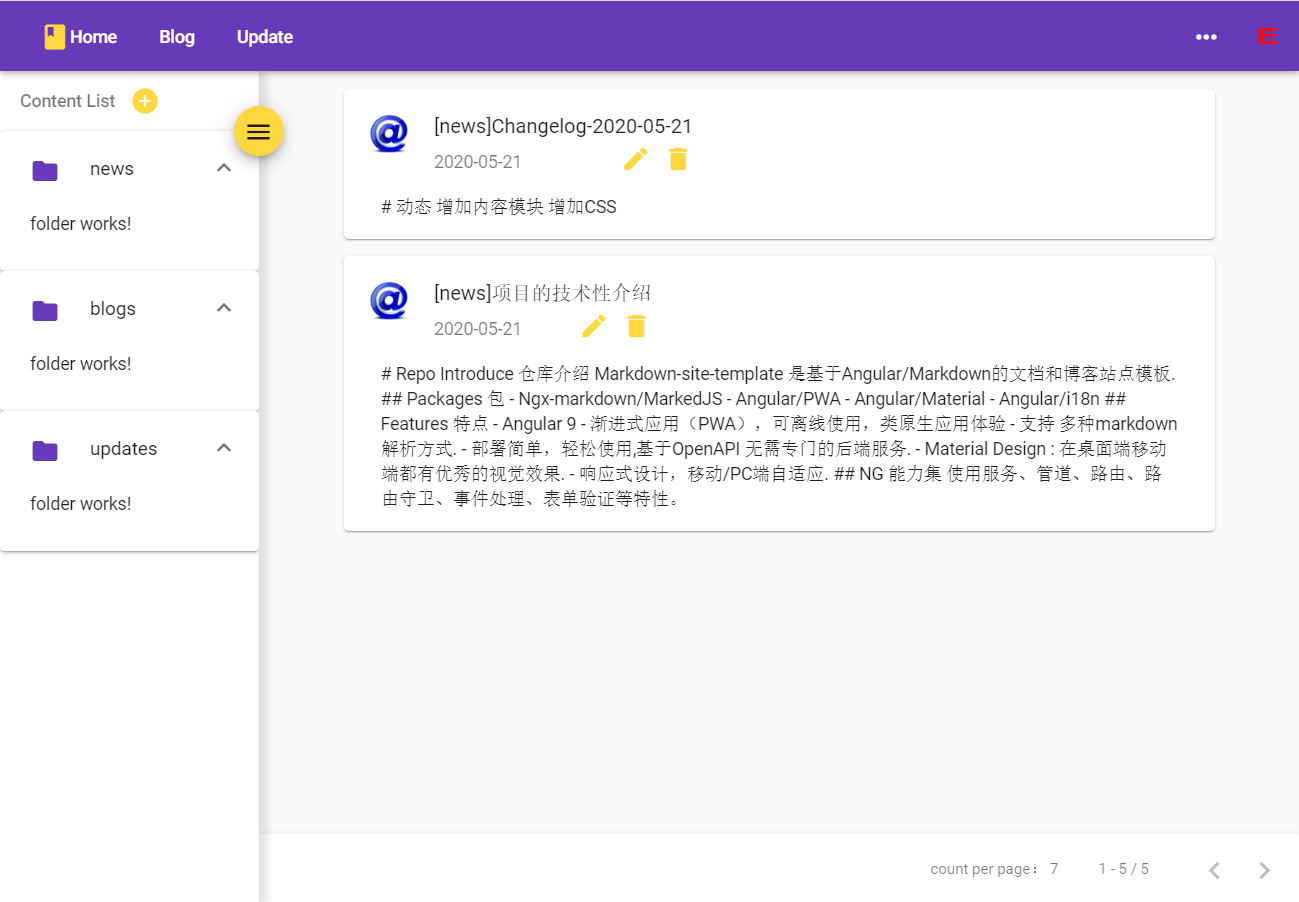
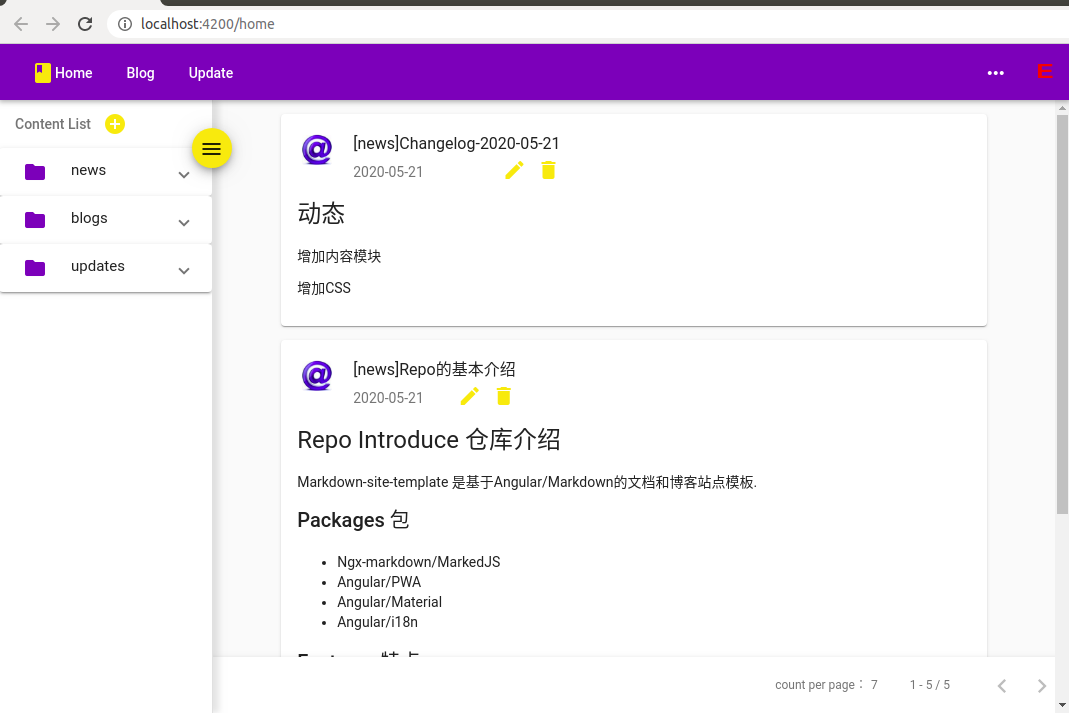
fix css of bottom margin

diff --git a/src/app/home/news/content-item/content.component.html b/src/app/home/news/content-item/content.component.html
@@ -9,6 +9,6 @@
         <mat-card-subtitle>{{createAt | date:"yyyy-MM-dd" }}</mat-card-subtitle>
     </mat-card-header>
     <mat-card-content>
-        <markdown class="markdown-section body-content" [innerHTML]="body"></markdown>
+        <markdown class="markdown-section body-content" [data]="body"></markdown>
     </mat-card-content>
 </mat-card>

diff --git a/src/app/home/news/news.component.html b/src/app/home/news/news.component.html
@@ -1,4 +1,4 @@
-<div class="NewContent">
+<div class="NewsContent">
     <app-content-item *ngFor="let contentItem of newsContentList | async" [oneArticle]="contentItem"
         (onClosed)="onClosed($event)"> </app-content-item>
 </div>
